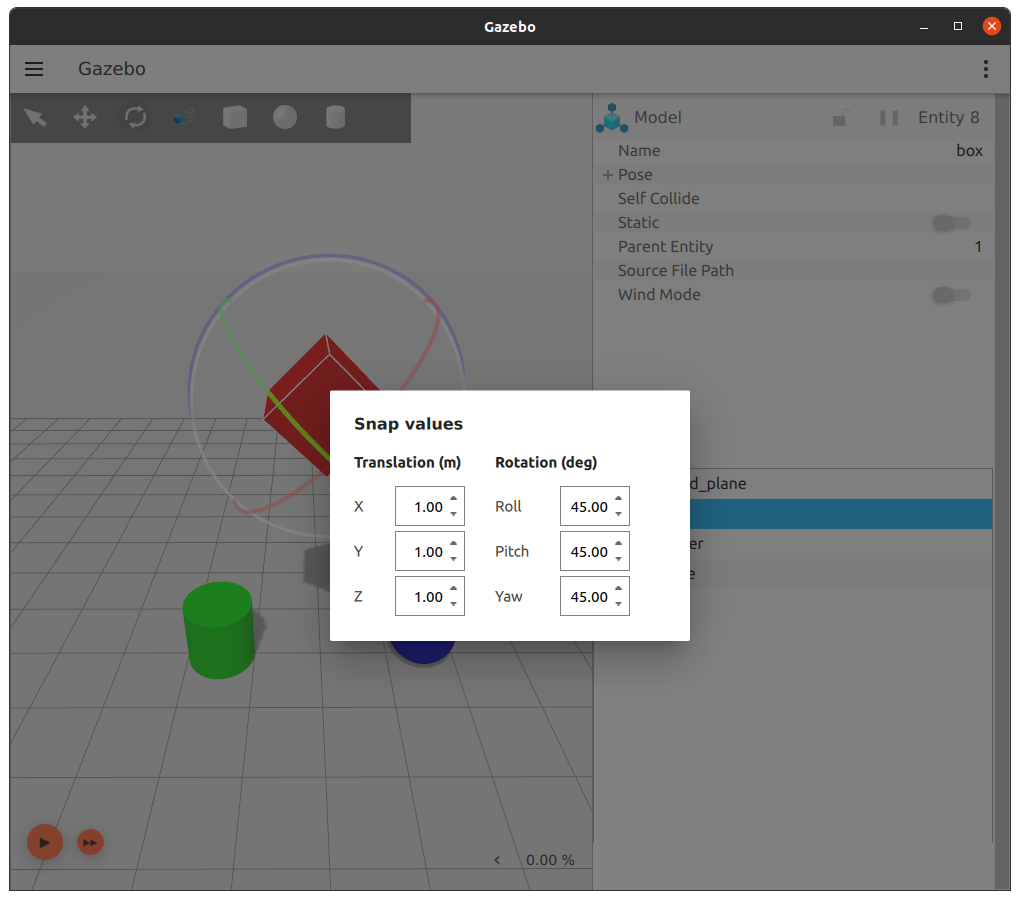
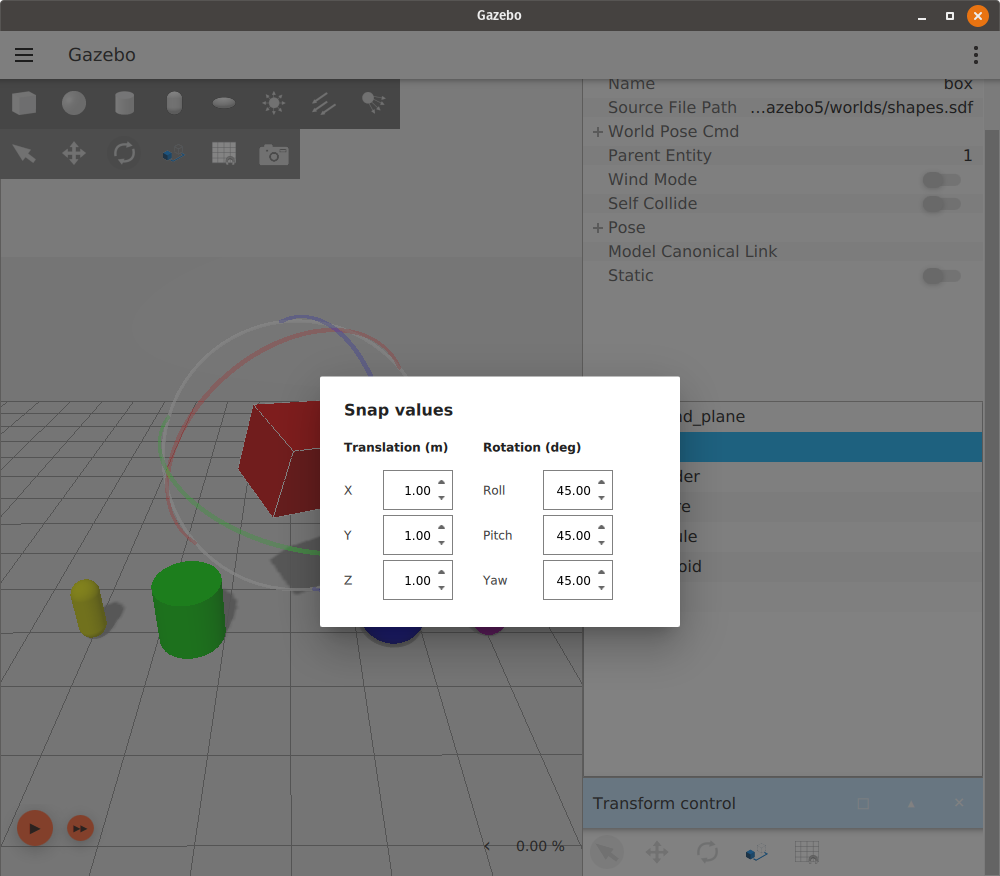
update GUI and Manipulating models tutorials for Edifice

diff --git a/edifice/GUI_tutorial.md b/edifice/GUI_tutorial.md
@@ -45,9 +45,9 @@ The toolbar along the top of the GUI contains two buttons, a file menu button on
 The file menu button allows you to save the world to a file, save and load interface configurations and customize interface style settings.
 An interface configuration consists of the plugins you have loaded and the style settings in place.
 
-The top left toolbar hanging below the file menu button contains transform control (first four buttons) and shape buttons (sphere, box, cylinder).
+The top left toolbar hanging below the file menu button contains shape buttons (sphere, box, cylinder, capsule and ellipsoid) and transform control (first four buttons on the second row).
 To learn more about transform control, go to the "Transform Control" section of [Manipulating Models](manipulating_models) tutorial.
-The shape buttons allow you to directly insert box, sphere or cylinder model into the world.
+The shape buttons allow you to directly insert a box, sphere, cylinder capsule, or ellipsoid model into the world.
 Simply click on the shape you would like to insert, and place it into the world.
 The shape will automatically snap onto the ground plane, and its properties will show up on the Entity Tree plugin window.
 

diff --git a/edifice/Manipulating_models.md b/edifice/Manipulating_models.md
@@ -79,11 +79,11 @@ If you would like to translate along the world frame axis, simply hold `Shift`.
 
 This isn't a permanent realignment; you can move the entity while holding `Shift`, but once you let go it will return to it's local translational frame.
 
-![World frame alignment - translation](img/translate_worldframe.png)
+![World frame alignment - translation](img/translate_worldframe.gif)
 
 The same can be done for an entity's local rotational frame.
 
-![World frame alignment - rotation](img/rotate_worldframe.png)
+![World frame alignment - rotation](img/rotate_worldframe.gif)
 
 ### Enter Custom Snap Values
 
